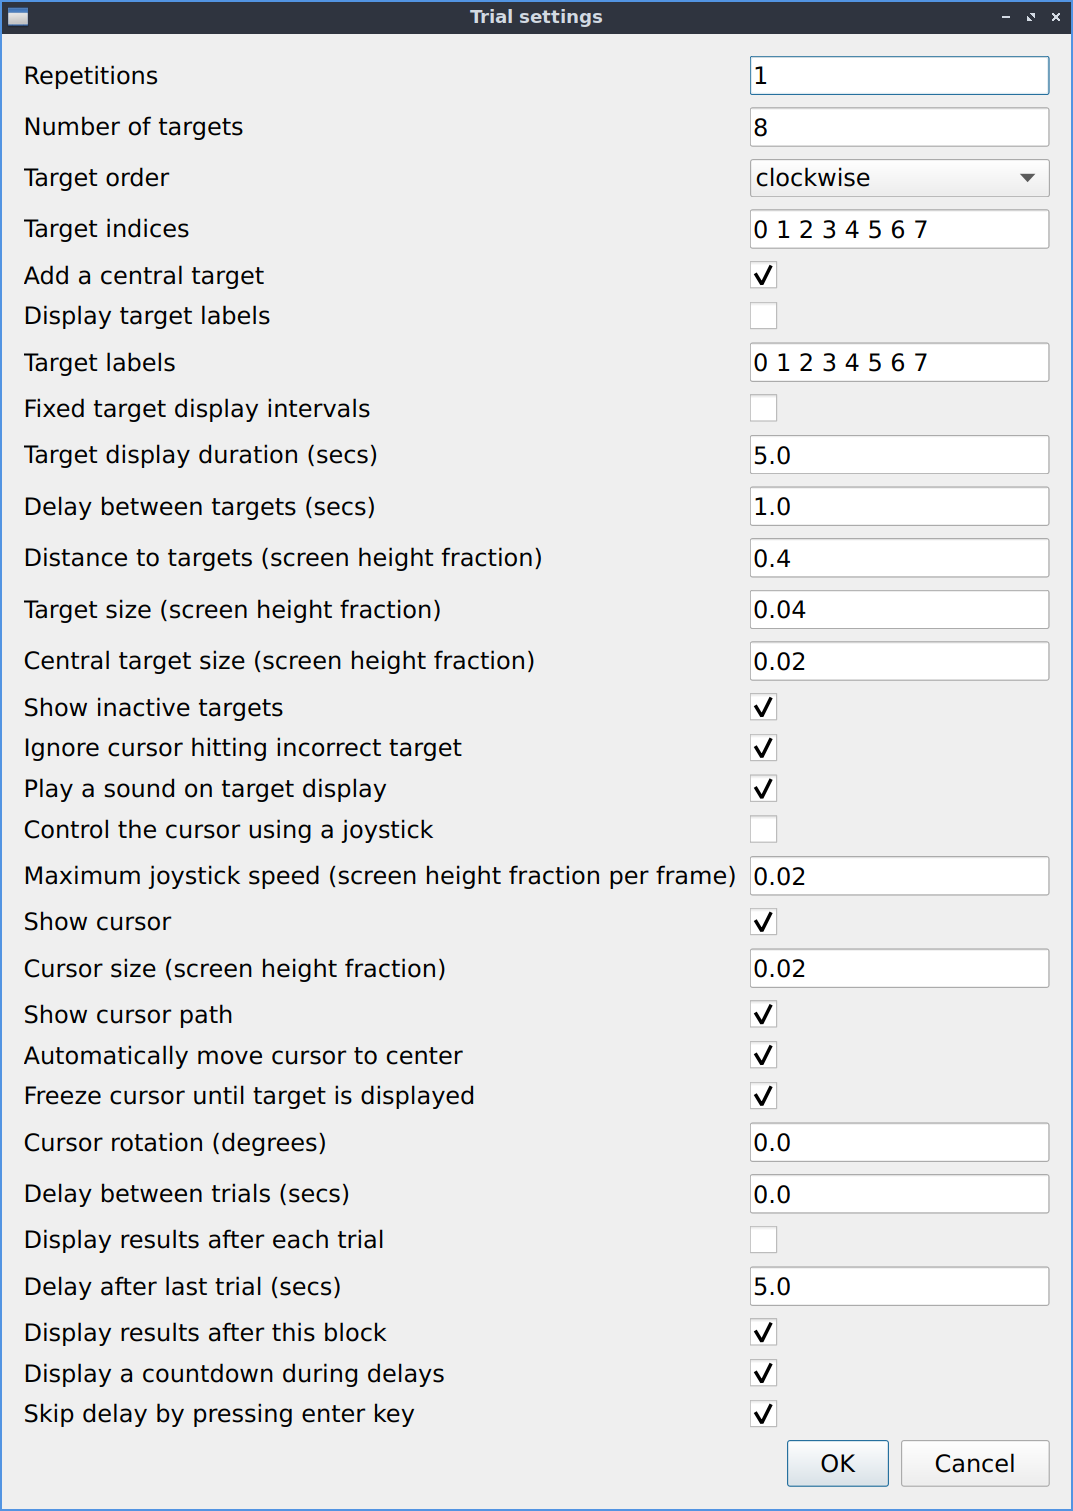
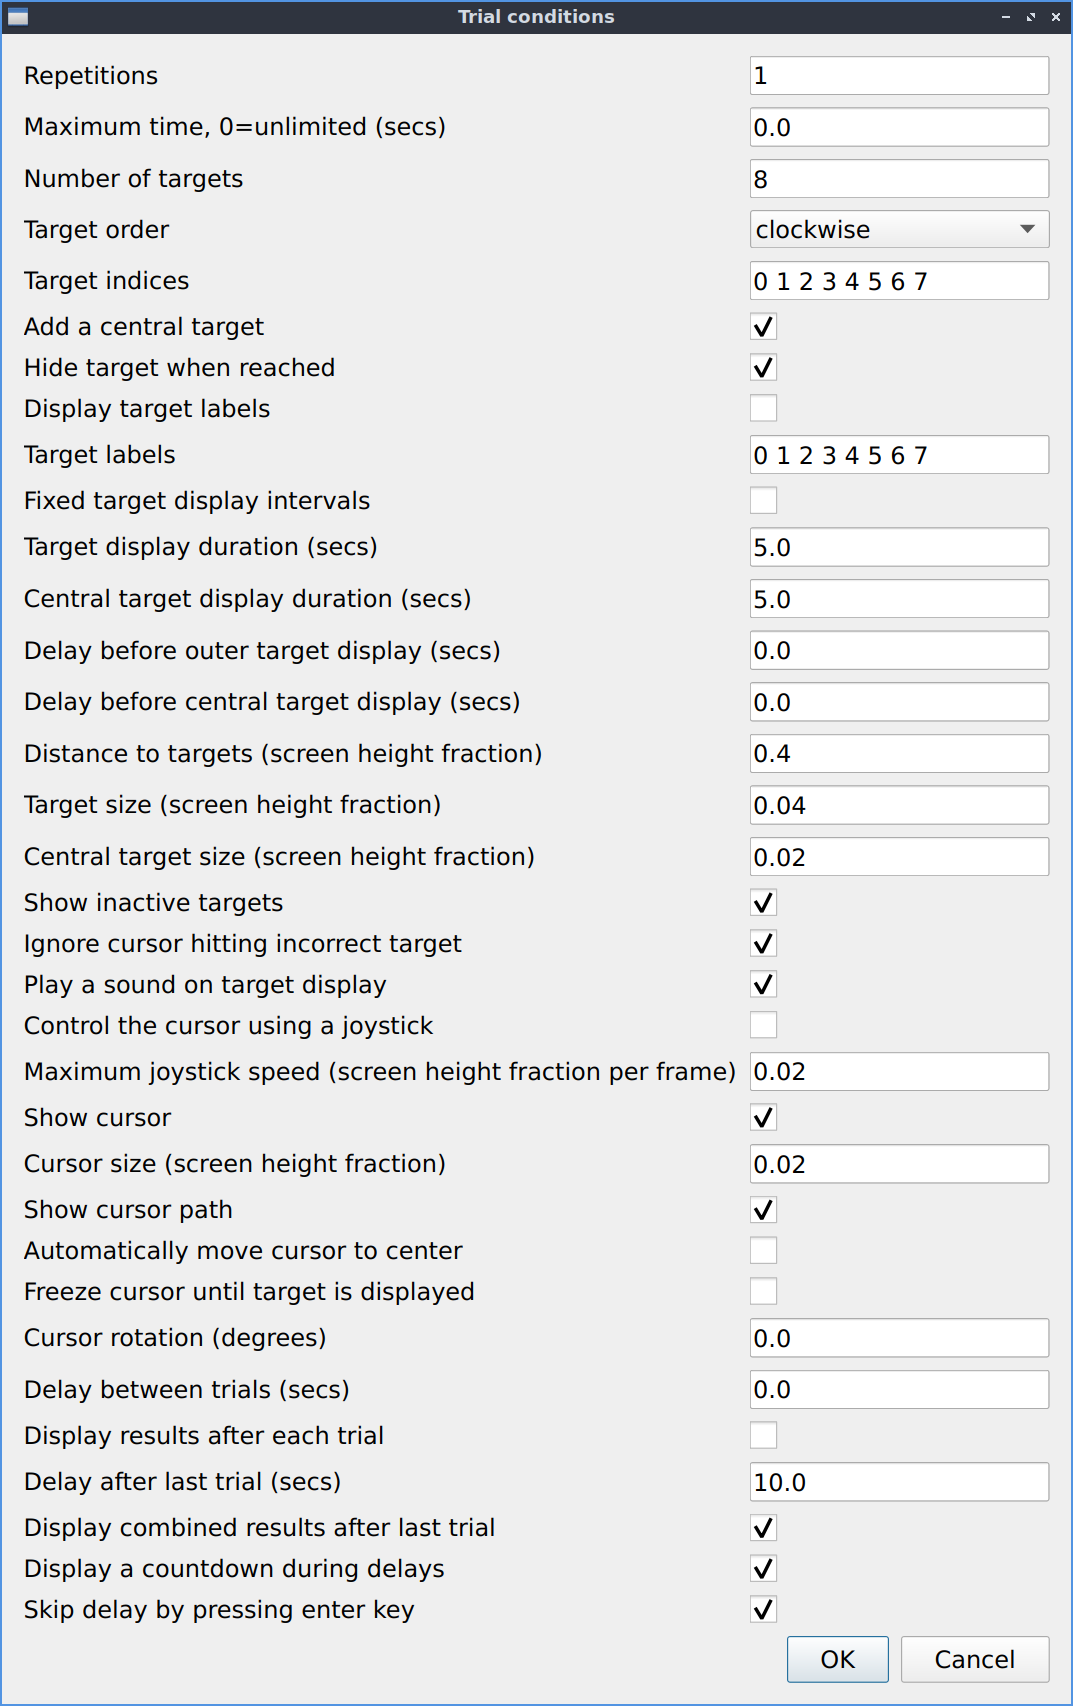
Separate delays before outer and central targets
- rename `inter_target_duration` to `pre_target_delay`
  - delay in seconds before each outer target is displayed
- add `pre_central_target_delay`
  - delay in seconds before each outer target is displayed
  - default value: 0 to maintain previous default behaviour
- update docs & tests
- resolves #224

also

- add CHANGELOG.md
  - resolves #218
- update example.psydat
  - resolves #209
- bump version to 1.0.0

diff --git a/src/vstt/task.py b/src/vstt/task.py
@@ -271,46 +271,50 @@ class MotorTask:
             is_central_target = target_index == trial["num_targets"]
             mouse_times = []
             mouse_positions = []
+            # current target is not yet displayed
             if not is_central_target:
                 if trial["automove_cursor_to_center"]:
                     mouse_pos = np.array([0.0, 0.0])
                     self.mouse.setPos(mouse_pos)
                     tm.cursor.setPos(mouse_pos)
                 tm.cursor_path_add_vertex(mouse_pos, clear_existing=True)
-                if not trial["fixed_target_intervals"]:
-                    stop_waiting_time = t0 + trial["inter_target_duration"]
-                if stop_waiting_time > t0:
-                    if trial["hide_target_when_reached"]:
-                        vis.update_target_colors(
-                            tm.targets, trial["show_inactive_targets"], None
+            if not trial["fixed_target_intervals"]:
+                if is_central_target:
+                    pre_target_delay = trial["pre_central_target_delay"]
+                else:
+                    pre_target_delay = trial["pre_target_delay"]
+                stop_waiting_time = t0 + pre_target_delay
+            if stop_waiting_time > t0:
+                if trial["hide_target_when_reached"]:
+                    vis.update_target_colors(
+                        tm.targets, trial["show_inactive_targets"], None
+                    )
+                    if trial["show_target_labels"] and tm.target_labels is not None:
+                        vis.update_target_label_colors(
+                            tm.target_labels, trial["show_inactive_targets"], None
                         )
-                        if trial["show_target_labels"] and tm.target_labels is not None:
-                            vis.update_target_label_colors(
-                                tm.target_labels, trial["show_inactive_targets"], None
+                # ensure we get at least a single flip
+                should_continue_waiting = True
+                while should_continue_waiting:
+                    if trial["freeze_cursor_between_targets"]:
+                        self.mouse.setPos(mouse_pos)
+                    vis.draw_and_flip(self.win, tm.drawables, self.kb)
+                    if not trial["freeze_cursor_between_targets"]:
+                        if trial["use_joystick"]:
+                            mouse_pos = tm.joystick_point_updater(
+                                mouse_pos, (self.js.getX(), self.js.getY())  # type: ignore
                             )
-                    # ensure we get at least a single flip
-                    should_continue_waiting = True
-                    while should_continue_waiting:
-                        if trial["freeze_cursor_between_targets"]:
-                            self.mouse.setPos(mouse_pos)
-                        vis.draw_and_flip(self.win, tm.drawables, self.kb)
-                        if not trial["freeze_cursor_between_targets"]:
-                            if trial["use_joystick"]:
-                                mouse_pos = tm.joystick_point_updater(
-                                    mouse_pos, (self.js.getX(), self.js.getY())  # type: ignore
-                                )
-                            else:
-                                mouse_pos = tm.point_rotator(self.mouse.getPos())
-                        mouse_times.append(tm.clock.getTime())
-                        mouse_positions.append(mouse_pos)
-                        if trial["show_cursor"]:
-                            tm.cursor.setPos(mouse_pos)
-                        if trial["show_cursor_path"]:
-                            tm.cursor_path_add_vertex(mouse_pos)
-                        should_continue_waiting = (
-                            tm.clock.getTime() + minimum_window_for_flip
-                            < stop_waiting_time
-                        )
+                        else:
+                            mouse_pos = tm.point_rotator(self.mouse.getPos())
+                    mouse_times.append(tm.clock.getTime())
+                    mouse_positions.append(mouse_pos)
+                    if trial["show_cursor"]:
+                        tm.cursor.setPos(mouse_pos)
+                    if trial["show_cursor_path"]:
+                        tm.cursor_path_add_vertex(mouse_pos)
+                    should_continue_waiting = (
+                        tm.clock.getTime() + minimum_window_for_flip < stop_waiting_time
+                    )
             # display current target
             t0 = tm.clock.getTime()
             vis.update_target_colors(

diff --git a/tests/test_trial.py b/tests/test_trial.py
@@ -58,7 +58,8 @@ def test_import_trial() -> None:
         "fixed_target_intervals": False,
         "target_duration": 3,
         "central_target_duration": 3,
-        "inter_target_duration": 0,
+        "pre_target_delay": 0,
+        "pre_central_target_delay": 0,
         "target_distance": 0.3,
         "target_size": 0.03,
         "central_target_size": 0.01,
@@ -112,25 +113,29 @@ def test_validate_trial_durations() -> None:
     # positive durations are not modified
     trial["target_duration"] = 1
     trial["central_target_duration"] = 1
-    trial["inter_target_duration"] = 0.1
+    trial["pre_target_delay"] = 0.1
+    trial["pre_central_target_delay"] = 0.087
     trial["post_trial_delay"] = 0.2
     trial["post_block_delay"] = 0.7
     vtrial = vstt.trial.import_and_validate_trial(trial)
     assert vtrial["target_duration"] == 1
     assert vtrial["central_target_duration"] == 1
-    assert vtrial["inter_target_duration"] == 0.1
+    assert vtrial["pre_target_delay"] == 0.1
+    assert vtrial["pre_central_target_delay"] == 0.087
     assert vtrial["post_trial_delay"] == 0.2
     assert vtrial["post_block_delay"] == 0.7
     # negative durations are cast to zero
     trial["target_duration"] = -1
     trial["central_target_duration"] = -0.8
-    trial["inter_target_duration"] = -0.1
+    trial["pre_target_delay"] = -0.1
+    trial["pre_central_target_delay"] = -0.087
     trial["post_trial_delay"] = -0.2
     trial["post_block_delay"] = -0.7
     vtrial = vstt.trial.import_and_validate_trial(trial)
     assert vtrial["target_duration"] == 0
     assert vtrial["central_target_duration"] == 0
-    assert vtrial["inter_target_duration"] == 0
+    assert vtrial["pre_target_delay"] == 0
+    assert vtrial["pre_central_target_delay"] == 0
     assert vtrial["post_trial_delay"] == 0
     assert vtrial["post_block_delay"] == 0
 

diff --git a/src/vstt/trial.py b/src/vstt/trial.py
@@ -40,7 +40,8 @@ def default_trial() -> Trial:
         "fixed_target_intervals": False,
         "target_duration": 5.0,
         "central_target_duration": 5.0,
-        "inter_target_duration": 0.0,
+        "pre_target_delay": 0.0,
+        "pre_central_target_delay": 0.0,
         "target_distance": 0.4,
         "target_size": 0.04,
         "central_target_size": 0.02,
@@ -78,7 +79,8 @@ def trial_labels() -> Dict:
         "fixed_target_intervals": "Fixed target display intervals",
         "target_duration": "Target display duration (secs)",
         "central_target_duration": "Central target display duration (secs)",
-        "inter_target_duration": "Delay between targets (secs)",
+        "pre_target_delay": "Delay before outer target display (secs)",
+        "pre_central_target_delay": "Delay before central target display (secs)",
         "target_distance": "Distance to targets (screen height fraction)",
         "target_size": "Target size (screen height fraction)",
         "central_target_size": "Central target size (screen height fraction)",
@@ -129,7 +131,8 @@ def import_and_validate_trial(trial_or_dict: Mapping[str, Any]) -> Trial:
         "condition_timeout",
         "target_duration",
         "central_target_duration",
-        "inter_target_duration",
+        "pre_target_delay",
+        "pre_central_target_delay",
         "post_trial_delay",
         "post_block_delay",
     ]:

diff --git a/tests/test_task.py b/tests/test_task.py
@@ -228,7 +228,8 @@ def test_task_condition_timeout_no_user_input(window: Window) -> None:
     trial1["condition_timeout"] = 4.0
     trial1["num_targets"] = 1
     trial1["target_duration"] = 2.1
-    trial1["inter_target_duration"] = 0.0
+    trial1["pre_target_delay"] = 0.0
+    trial1["pre_central_target_delay"] = 0.0
     trial1["add_central_target"] = False
     trial1["automove_cursor_to_center"] = False
     trial1["freeze_cursor_between_targets"] = False

diff --git a/tests/conftest.py b/tests/conftest.py
@@ -75,7 +75,8 @@ def experiment_no_results() -> Experiment:
     trial0["play_sound"] = False
     trial0["target_duration"] = 60.0
     trial0["central_target_duration"] = 60.0
-    trial0["inter_target_duration"] = 0.0
+    trial0["pre_target_delay"] = 0.0
+    trial0["pre_central_target_delay"] = 0.0
     trial0["post_block_display_results"] = False
     trial0["post_block_delay"] = 0.1
     trial1 = copy.deepcopy(trial0)

diff --git a/benchmarks/profile_task.py b/benchmarks/profile_task.py
@@ -10,7 +10,8 @@ xlib.XInitThreads()
 
 experiment = Experiment()
 experiment.trial_list[0]["weight"] = 3
-experiment.trial_list[0]["inter_target_duration"] = 0
+experiment.trial_list[0]["pre_target_delay"] = 0.0
+experiment.trial_list[0]["pre_central_target_delay"] = 0.0
 experiment.trial_list[0]["post_block_display_results"] = False
 task = MotorTask(experiment)
 with cProfile.Profile() as pr:

diff --git a/src/vstt/vtypes.py b/src/vstt/vtypes.py
@@ -23,7 +23,8 @@ class Trial(TypedDict):
     fixed_target_intervals: bool
     target_duration: float
     central_target_duration: float
-    inter_target_duration: float
+    pre_target_delay: float
+    pre_central_target_delay: float
     target_distance: float
     target_size: float
     central_target_size: float

diff --git a/src/vstt/__init__.py b/src/vstt/__init__.py
@@ -5,4 +5,4 @@ __all__ = [
     "__version__",
 ]
 
-__version__ = "0.31.0"
+__version__ = "1.0.0"

diff --git a/docs/reference/trial-conditions.rst b/docs/reference/trial-conditions.rst
@@ -52,8 +52,11 @@ the screen height (i.e. a line of length 1.0 in these units would extend from th
 * Central target display duration (secs)
    * How long each central target should be displayed for
    * Default: ``5.0``
-* Delay between targets (secs)
+* Delay before target display (secs)
    * The delay before each outer target is displayed
+   * Default: ``0.0``
+* Delay before central target display (secs)
+   * The delay before each central target is displayed
    * Default: ``0.0``
 * Distance to targets (screen height fraction)
    * The distance from the centre of the screen to the outer targets

diff --git a/CHANGELOG.md b/CHANGELOG.md
@@ -1,0 +1,7 @@
+# Changelog
+
+## [1.0.0] - 2023-06-26
+
+First official release.
+
+Changelog format based on [Keep a Changelog](https://keepachangelog.com/en/1.0.0/).
